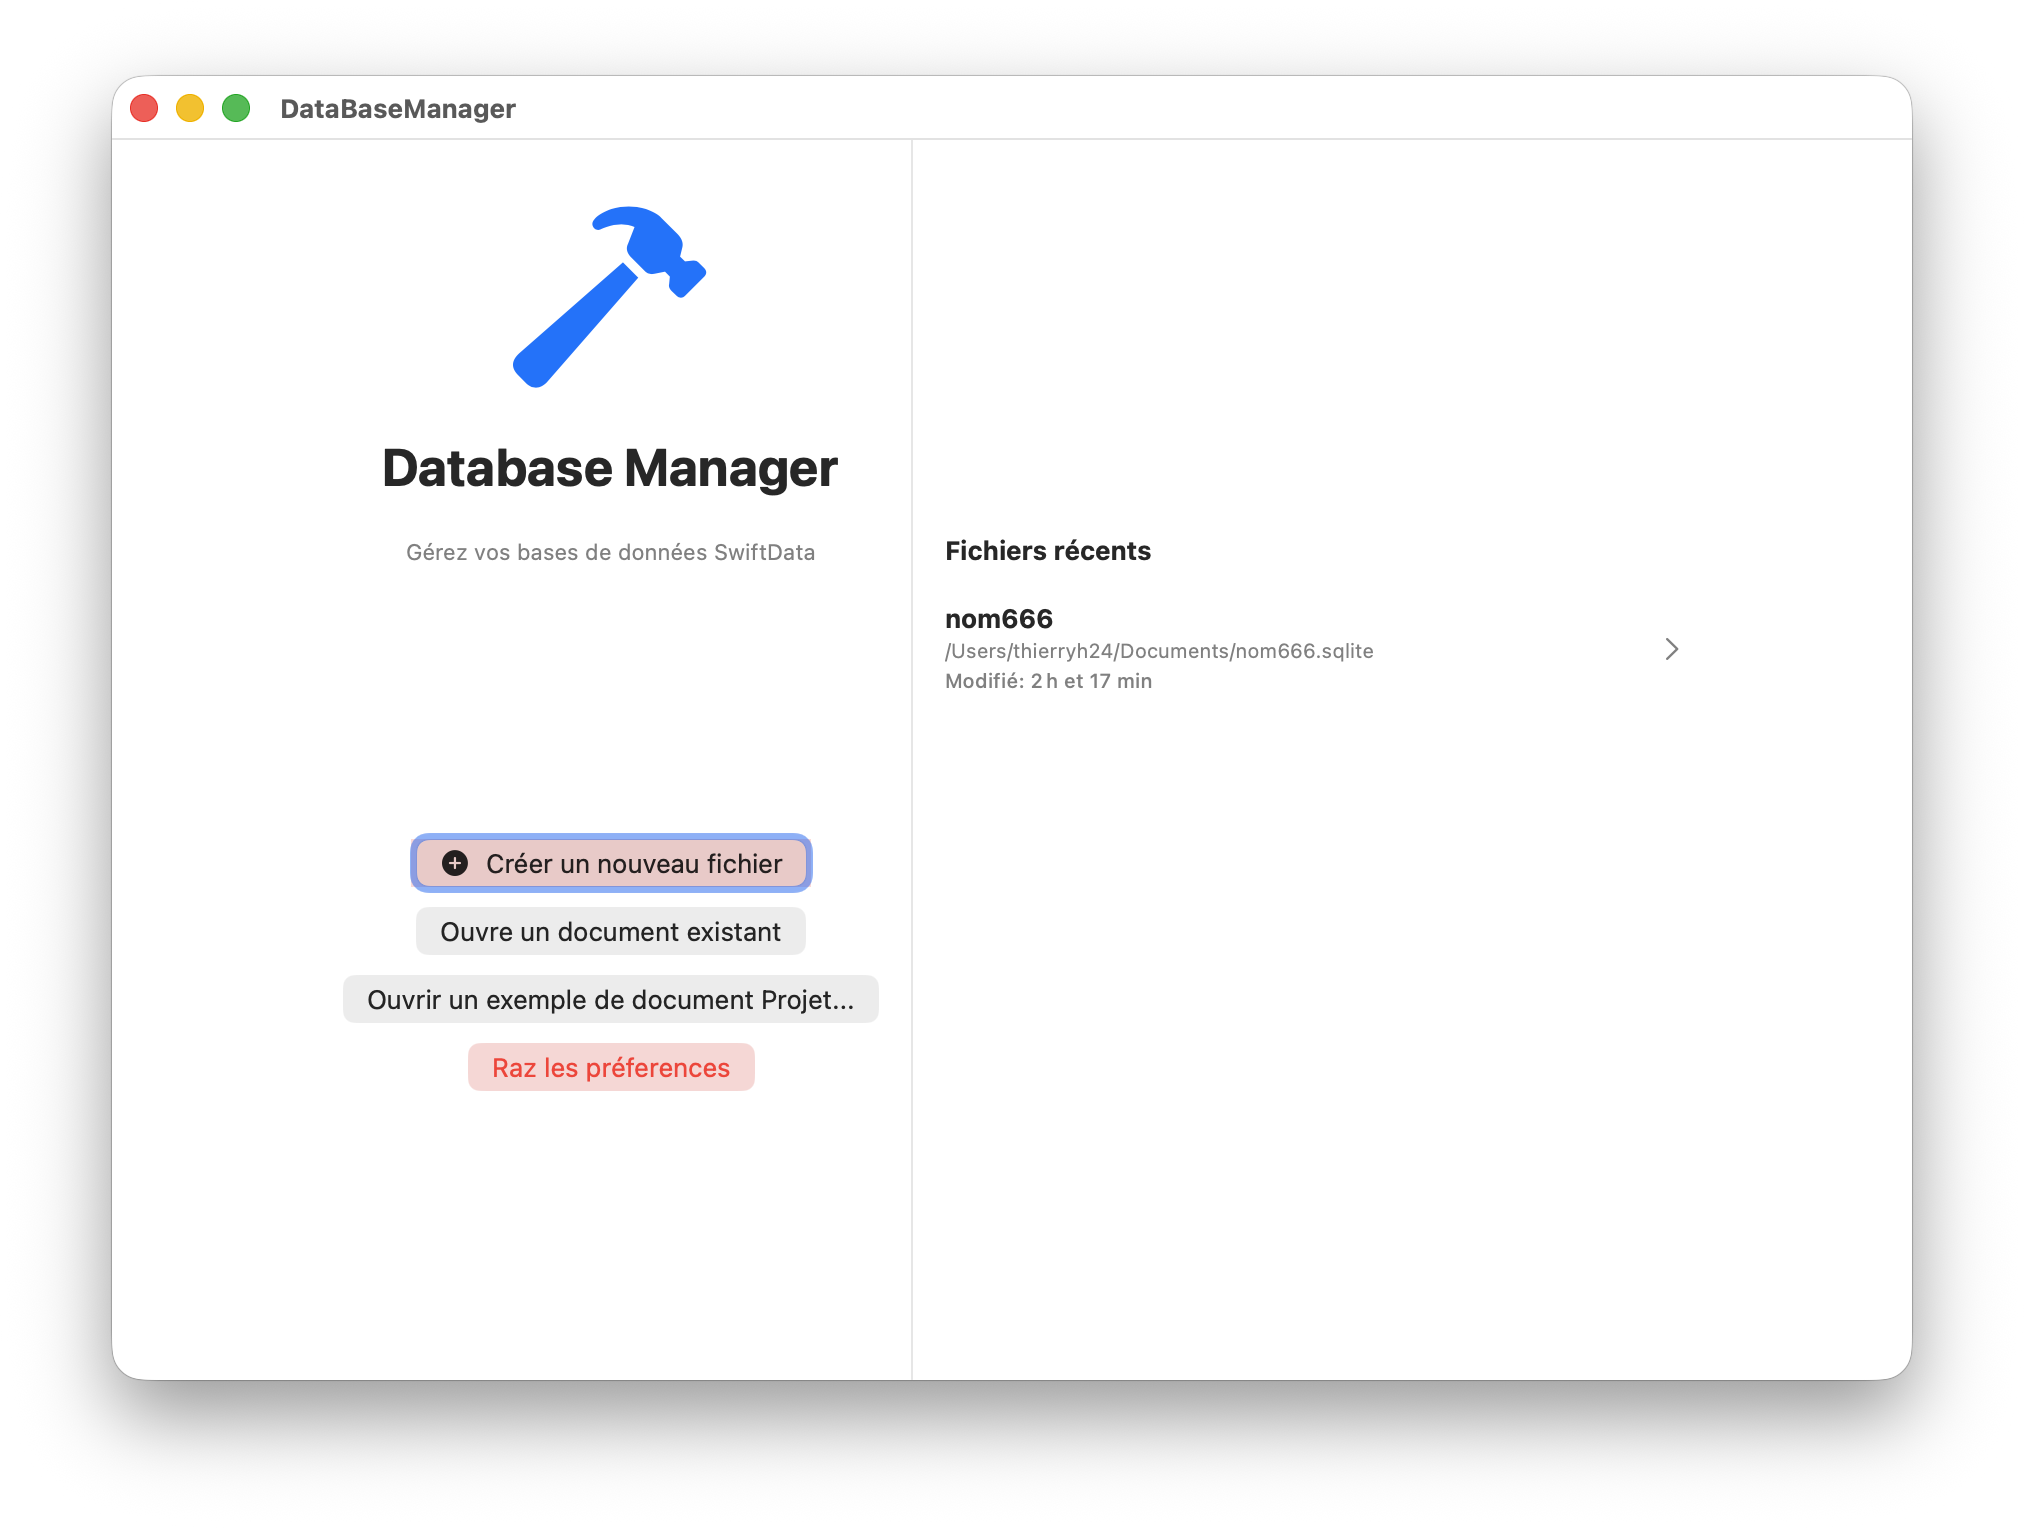
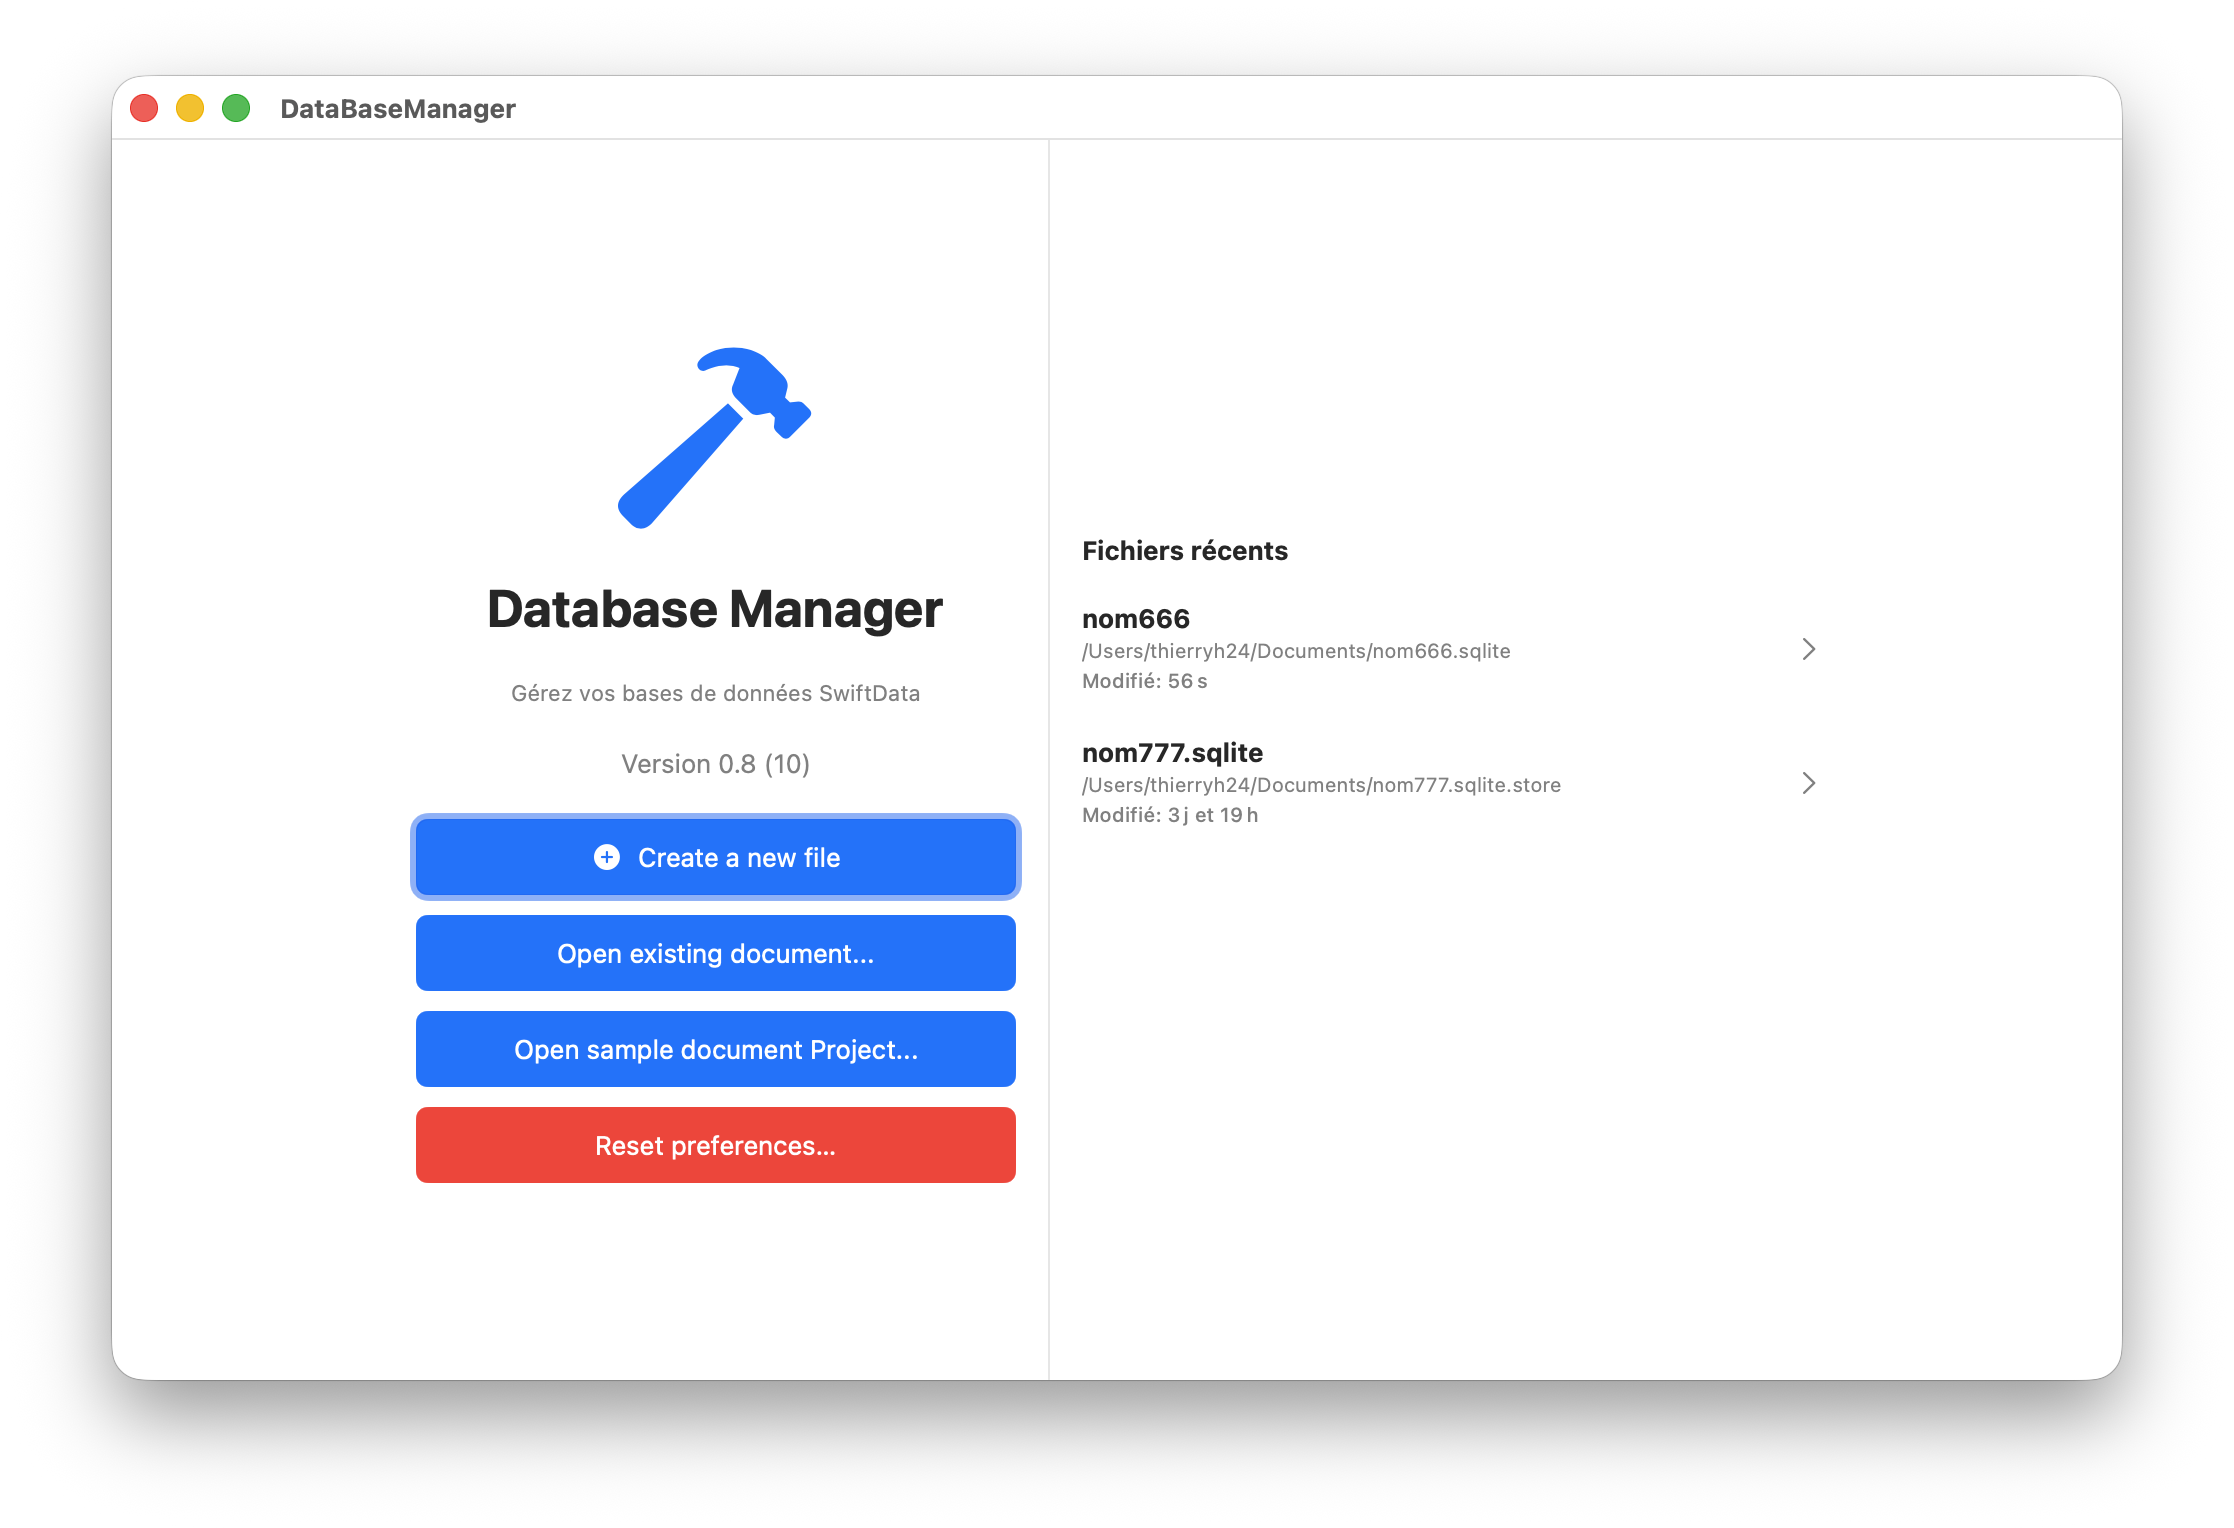
com250829AAAA

diff --git a/DatabaseManager/VIews/MainAppVIew.swift b/DatabaseManager/VIews/MainAppVIew.swift
@@ -146,73 +146,64 @@ struct PersonListView: View {
                 
             }
             HStack {
-                Button(action: {
+                // Remplacement par UniformLabeledButton
+                UniformLabeledButton(
+                    "Add",
+                    systemImage: "plus",
+                    minWidth: 100,
+                    style: .borderedProminent,
+                    tint: .blue
+                ) {
                     isAddDialogPresented = true
                     isModeCreate = true
-                }) {
-                    Label("Add", systemImage: "plus")
-                        .padding()
-                        .background(Color.blue)
-                        .foregroundColor(.white)
-                        .cornerRadius(8)
                 }
-                Button(action: {
+                UniformLabeledButton(
+                    "Edit",
+                    systemImage: "pencil",
+                    minWidth: 100,
+                    style: .borderedProminent,
+                    tint: .green
+                ) {
                     isEditDialogPresented = true
                     isModeCreate = false
-                }) {
-                    Label("Edit", systemImage: "pencil")
-                        .padding()
-                        .background(Color.green)
-                        .foregroundColor(.white)
-                        .cornerRadius(8)
                 }
                 .disabled(selectedItem == nil)
-                
-                Button(action: {
+
+                UniformLabeledButton(
+                    "Delete",
+                    systemImage: "trash",
+                    minWidth: 100,
+                    style: .borderedProminent,
+                    tint: .red
+                ) {
                     delete()
-                }) {
-                    Label("Delete", systemImage: "trash")
-                        .frame(minWidth: 100) // Largeur minimale utile
-                        .padding()
-                        .background(Color.red)
-//                        .background(selectedItem == nil ? Color.gray : Color.red)
-//                        .opacity(selectedItem == nil ? 0.6 : 1)
-                        .foregroundColor(.white)
-                        .cornerRadius(8)
                 }
-//                .buttonStyle(.plain)
                 .disabled(selectedItem == nil)
-                
-                Button(action: {
+
+                UniformLabeledButton(
+                    "Undo",
+                    systemImage: "arrow.uturn.backward",
+                    minWidth: 100,
+                    style: .borderedProminent,
+                    tint: .gray
+                ) {
                     if let manager = undoManager, manager.canUndo {
                         manager.undo()
                         people = PersonManager.shared.getAllData()
                     }
-                }) {
-                    Label("Undo", systemImage: "arrow.uturn.backward")
-                        .frame(minWidth: 100) // Largeur minimale utile
-                        .padding()
-                        .background(canUndo == false ? Color.gray : Color.green)
-                        .opacity(canUndo == false  ? 0.6 : 1)
-                        .foregroundColor(.white)
-                        .cornerRadius(8)
                 }
-                .buttonStyle(.plain)
-                Button(action: {
+                UniformLabeledButton(
+                    "Redo",
+                    systemImage: "arrow.uturn.forward",
+                    minWidth: 100,
+                    style: .borderedProminent,
+                    tint: .gray
+                ) {
                     if let manager = undoManager, manager.canRedo {
                         manager.redo()
                         people = PersonManager.shared.getAllData()
                     }
-                }) {
-                    Label("Redo", systemImage: "arrow.uturn.forward")
-                        .frame(minWidth: 100) // Largeur minimale utile
-                        .padding()
-                        .background( canRedo == false ? Color.gray : Color.orange)
-                        .opacity( canRedo  == false ? 0.6 : 1)
-                        .foregroundColor(.white)
-                        .cornerRadius(8)
                 }
-                .buttonStyle(.plain)
             }
         }
         .toolbar {
@@ -277,4 +268,3 @@ struct PersonListView: View {
         }
     }
 }
-

diff --git a/DatabaseManager/Extension/UIComponents.swift b/DatabaseManager/Extension/UIComponents.swift
@@ -10,19 +10,22 @@ import SwiftUI
 // Un bouton d'action uniformisé qui s'étire horizontalement, avec centrage et style cohérent.
 struct UniformActionButton<Content: View>: View {
     let minWidth: CGFloat
+    let minHeight: CGFloat
     let style: ButtonStyleConfiguration.Style
     let tint: Color?
     let action: () -> Void
     @ViewBuilder let content: () -> Content
 
     init(
-        minWidth: CGFloat = 300,
+        minWidth: CGFloat = 200,
+        minHeight: CGFloat = 100,
         style: ButtonStyleConfiguration.Style = .bordered,
         tint: Color? = nil,
         action: @escaping () -> Void,
         @ViewBuilder content: @escaping () -> Content
     ) {
         self.minWidth = minWidth
+        self.minHeight = minHeight
         self.style = style
         self.tint = tint
         self.action = action
@@ -36,6 +39,7 @@ struct UniformActionButton<Content: View>: View {
                 content()
                 Spacer(minLength: 0)
             }
+            .frame(minHeight: minHeight) // Assure la hauteur minimale
         }
         .uniformButton(minWidth: minWidth, fillContainer: true, style: style)
         .frame(maxWidth: .infinity)
@@ -48,6 +52,7 @@ struct UniformLabeledButton: View {
     let title: String
     let systemImage: String?
     let minWidth: CGFloat
+    let minHeight: CGFloat
     let style: ButtonStyleConfiguration.Style
     let tint: Color?
     let action: () -> Void
@@ -56,6 +61,7 @@ struct UniformLabeledButton: View {
         _ title: String,
         systemImage: String? = nil,
         minWidth: CGFloat = 300,
+        minHeight: CGFloat = 44, // hauteur par défaut plus “bouton”
         style: ButtonStyleConfiguration.Style = .bordered,
         tint: Color? = nil,
         action: @escaping () -> Void
@@ -63,13 +69,14 @@ struct UniformLabeledButton: View {
         self.title = title
         self.systemImage = systemImage
         self.minWidth = minWidth
+        self.minHeight = minHeight
         self.style = style
         self.tint = tint
         self.action = action
     }
 
     var body: some View {
-        UniformActionButton(minWidth: minWidth, style: style, tint: tint, action: action) {
+        UniformActionButton(minWidth: minWidth, minHeight: minHeight, style: style, tint: tint, action: action) {
             HStack(spacing: 8) {
                 if let systemImage {
                     Image(systemName: systemImage)

diff --git a/DatabaseManager/VIews/SplashScreenView.swift b/DatabaseManager/VIews/SplashScreenView.swift
@@ -47,6 +47,7 @@ private struct LeftPanelView: View {
                 UniformLabeledButton("Create a new file",
                                      systemImage: "plus.circle.fill",
                                      minWidth: 300,
+                                     minHeight: 30,
                                      style: .borderedProminent) {
                     showSavePanel()
                 }
@@ -54,6 +55,7 @@ private struct LeftPanelView: View {
                 // 2
                 UniformLabeledButton("Open existing document...",
                                      minWidth: 300,
+                                     minHeight: 30,
                                      style: .borderedProminent) {
                     let panel = NSOpenPanel()
                     panel.canChooseFiles = true
@@ -68,6 +70,7 @@ private struct LeftPanelView: View {
                 // 3
                 UniformLabeledButton("Open sample document Project...",
                                      minWidth: 300,
+                                     minHeight: 30,
                                      style: .borderedProminent) {
                     preloadDBData()
                 }
@@ -76,6 +79,7 @@ private struct LeftPanelView: View {
                 // 4
                 UniformLabeledButton("Reset preferences…",
                                      minWidth: 300,
+                                     minHeight: 30,
                                      style: .borderedProminent,
                                      tint: .red) {
                     showResetAlert = true
